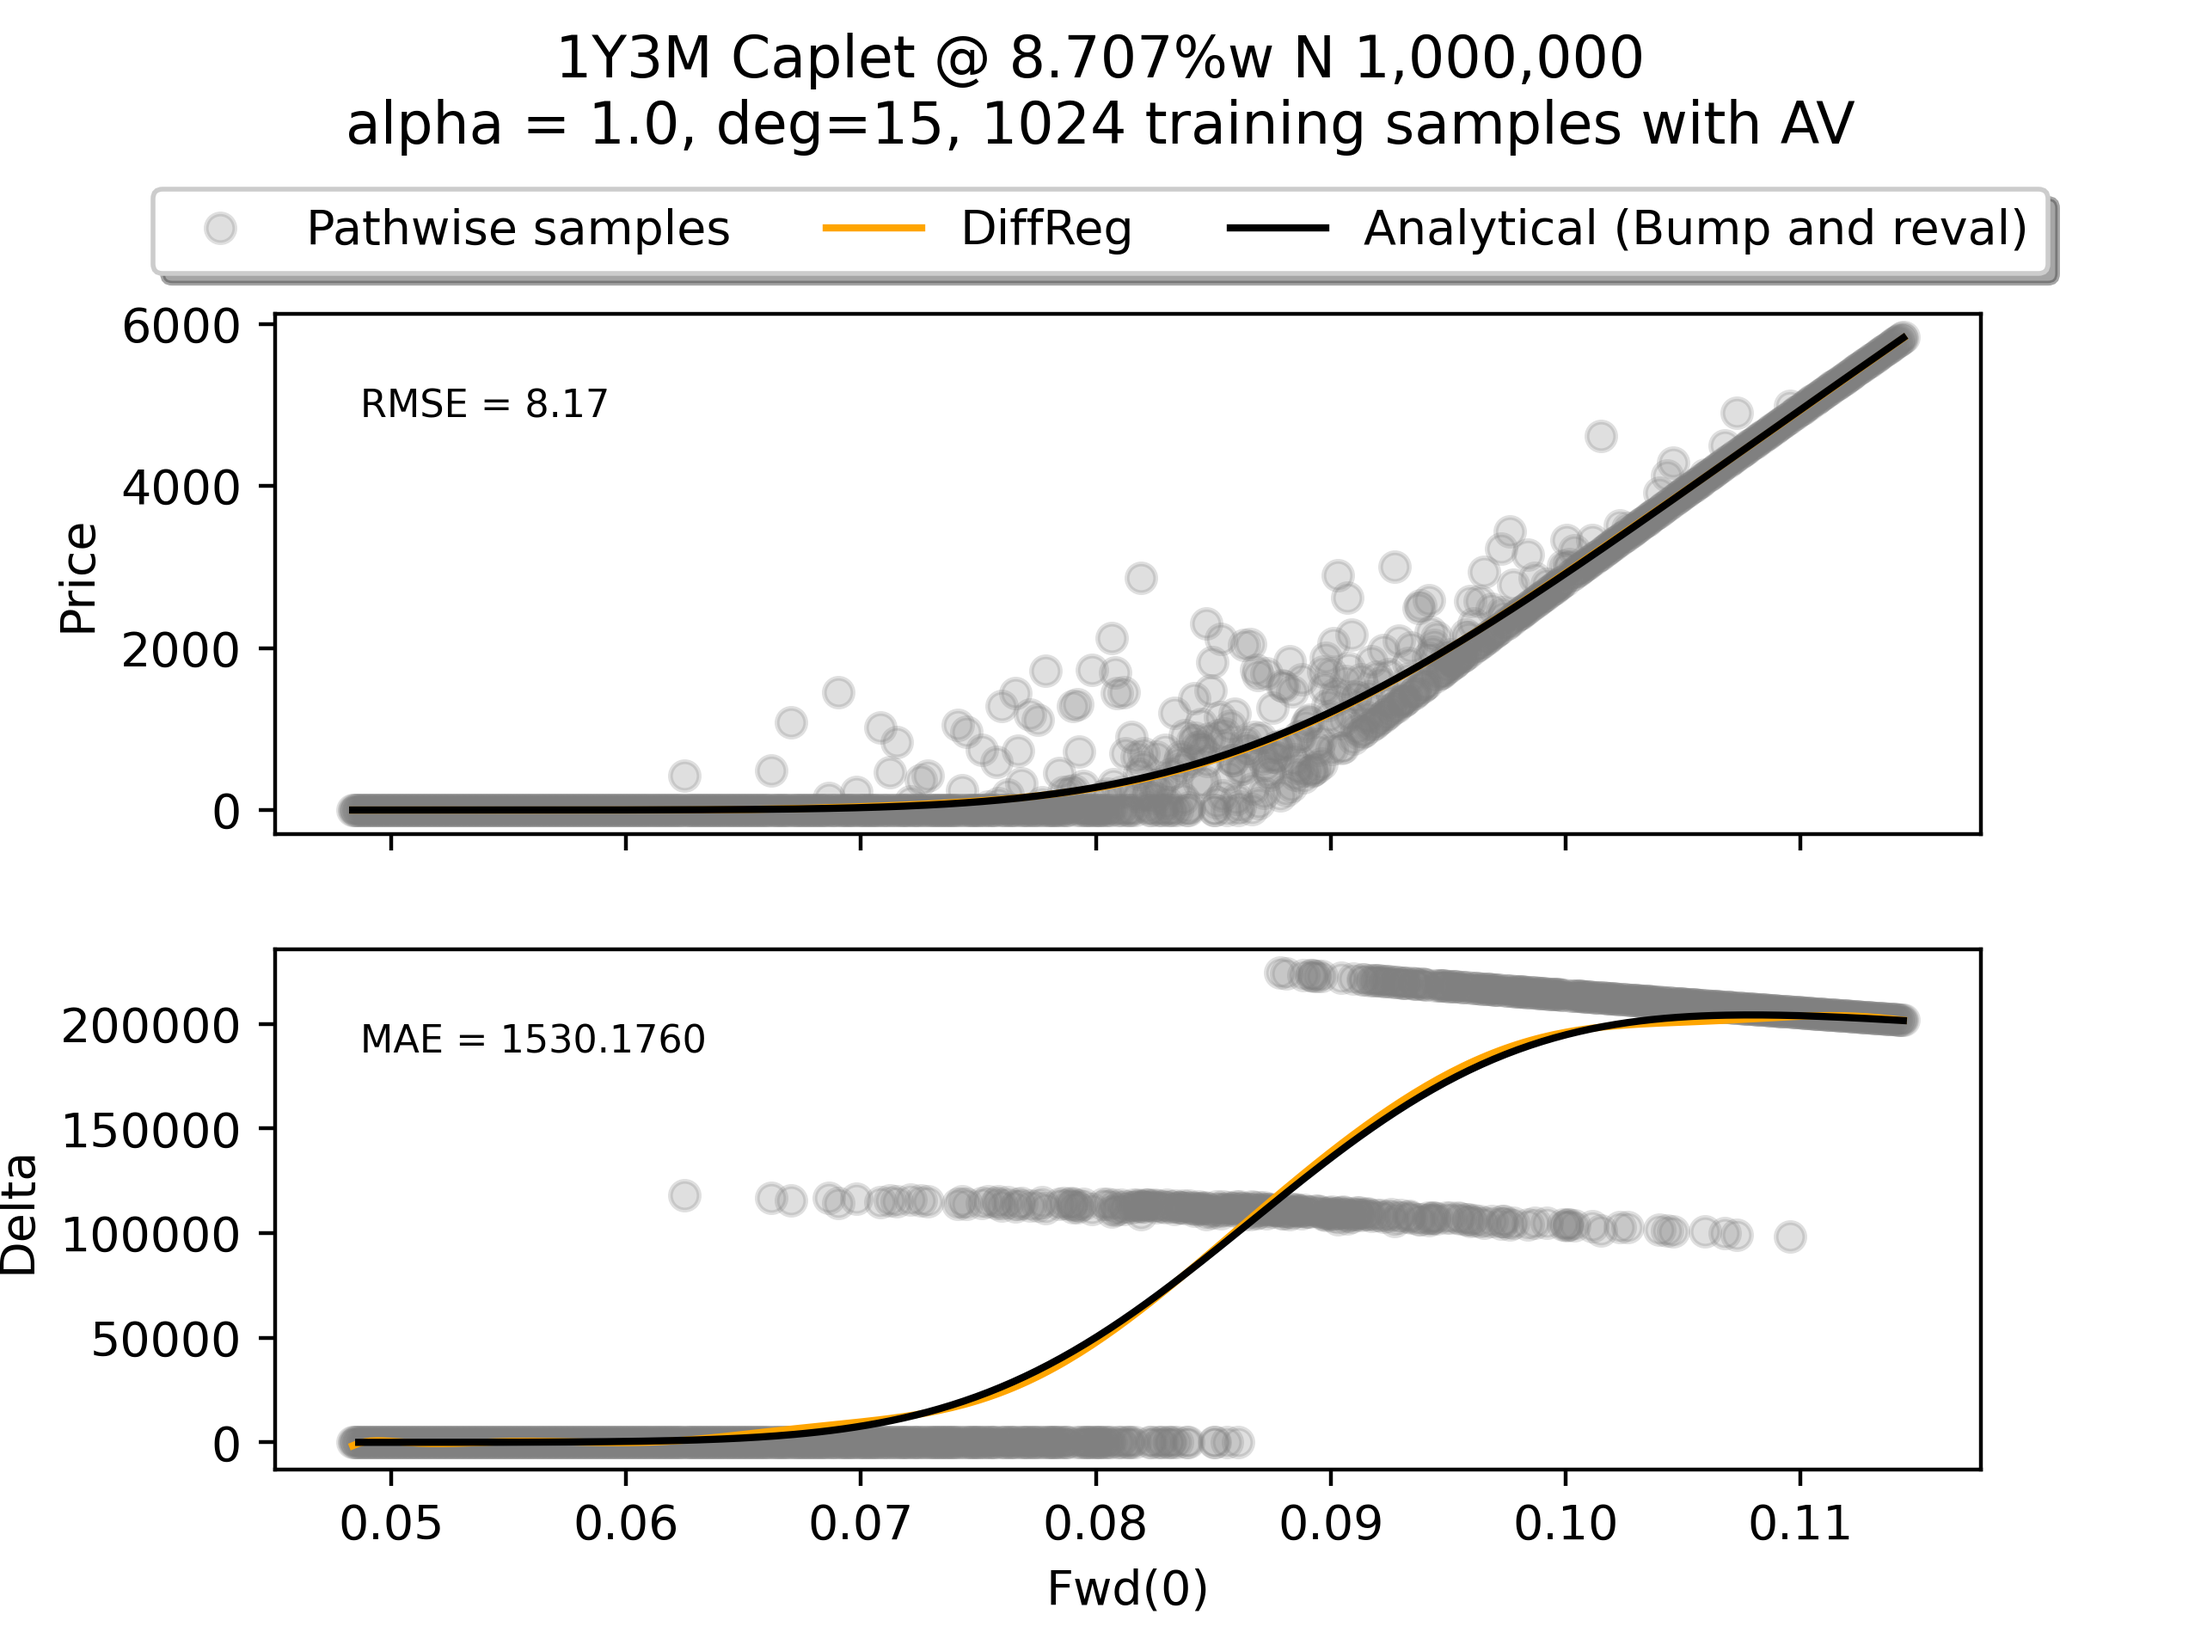
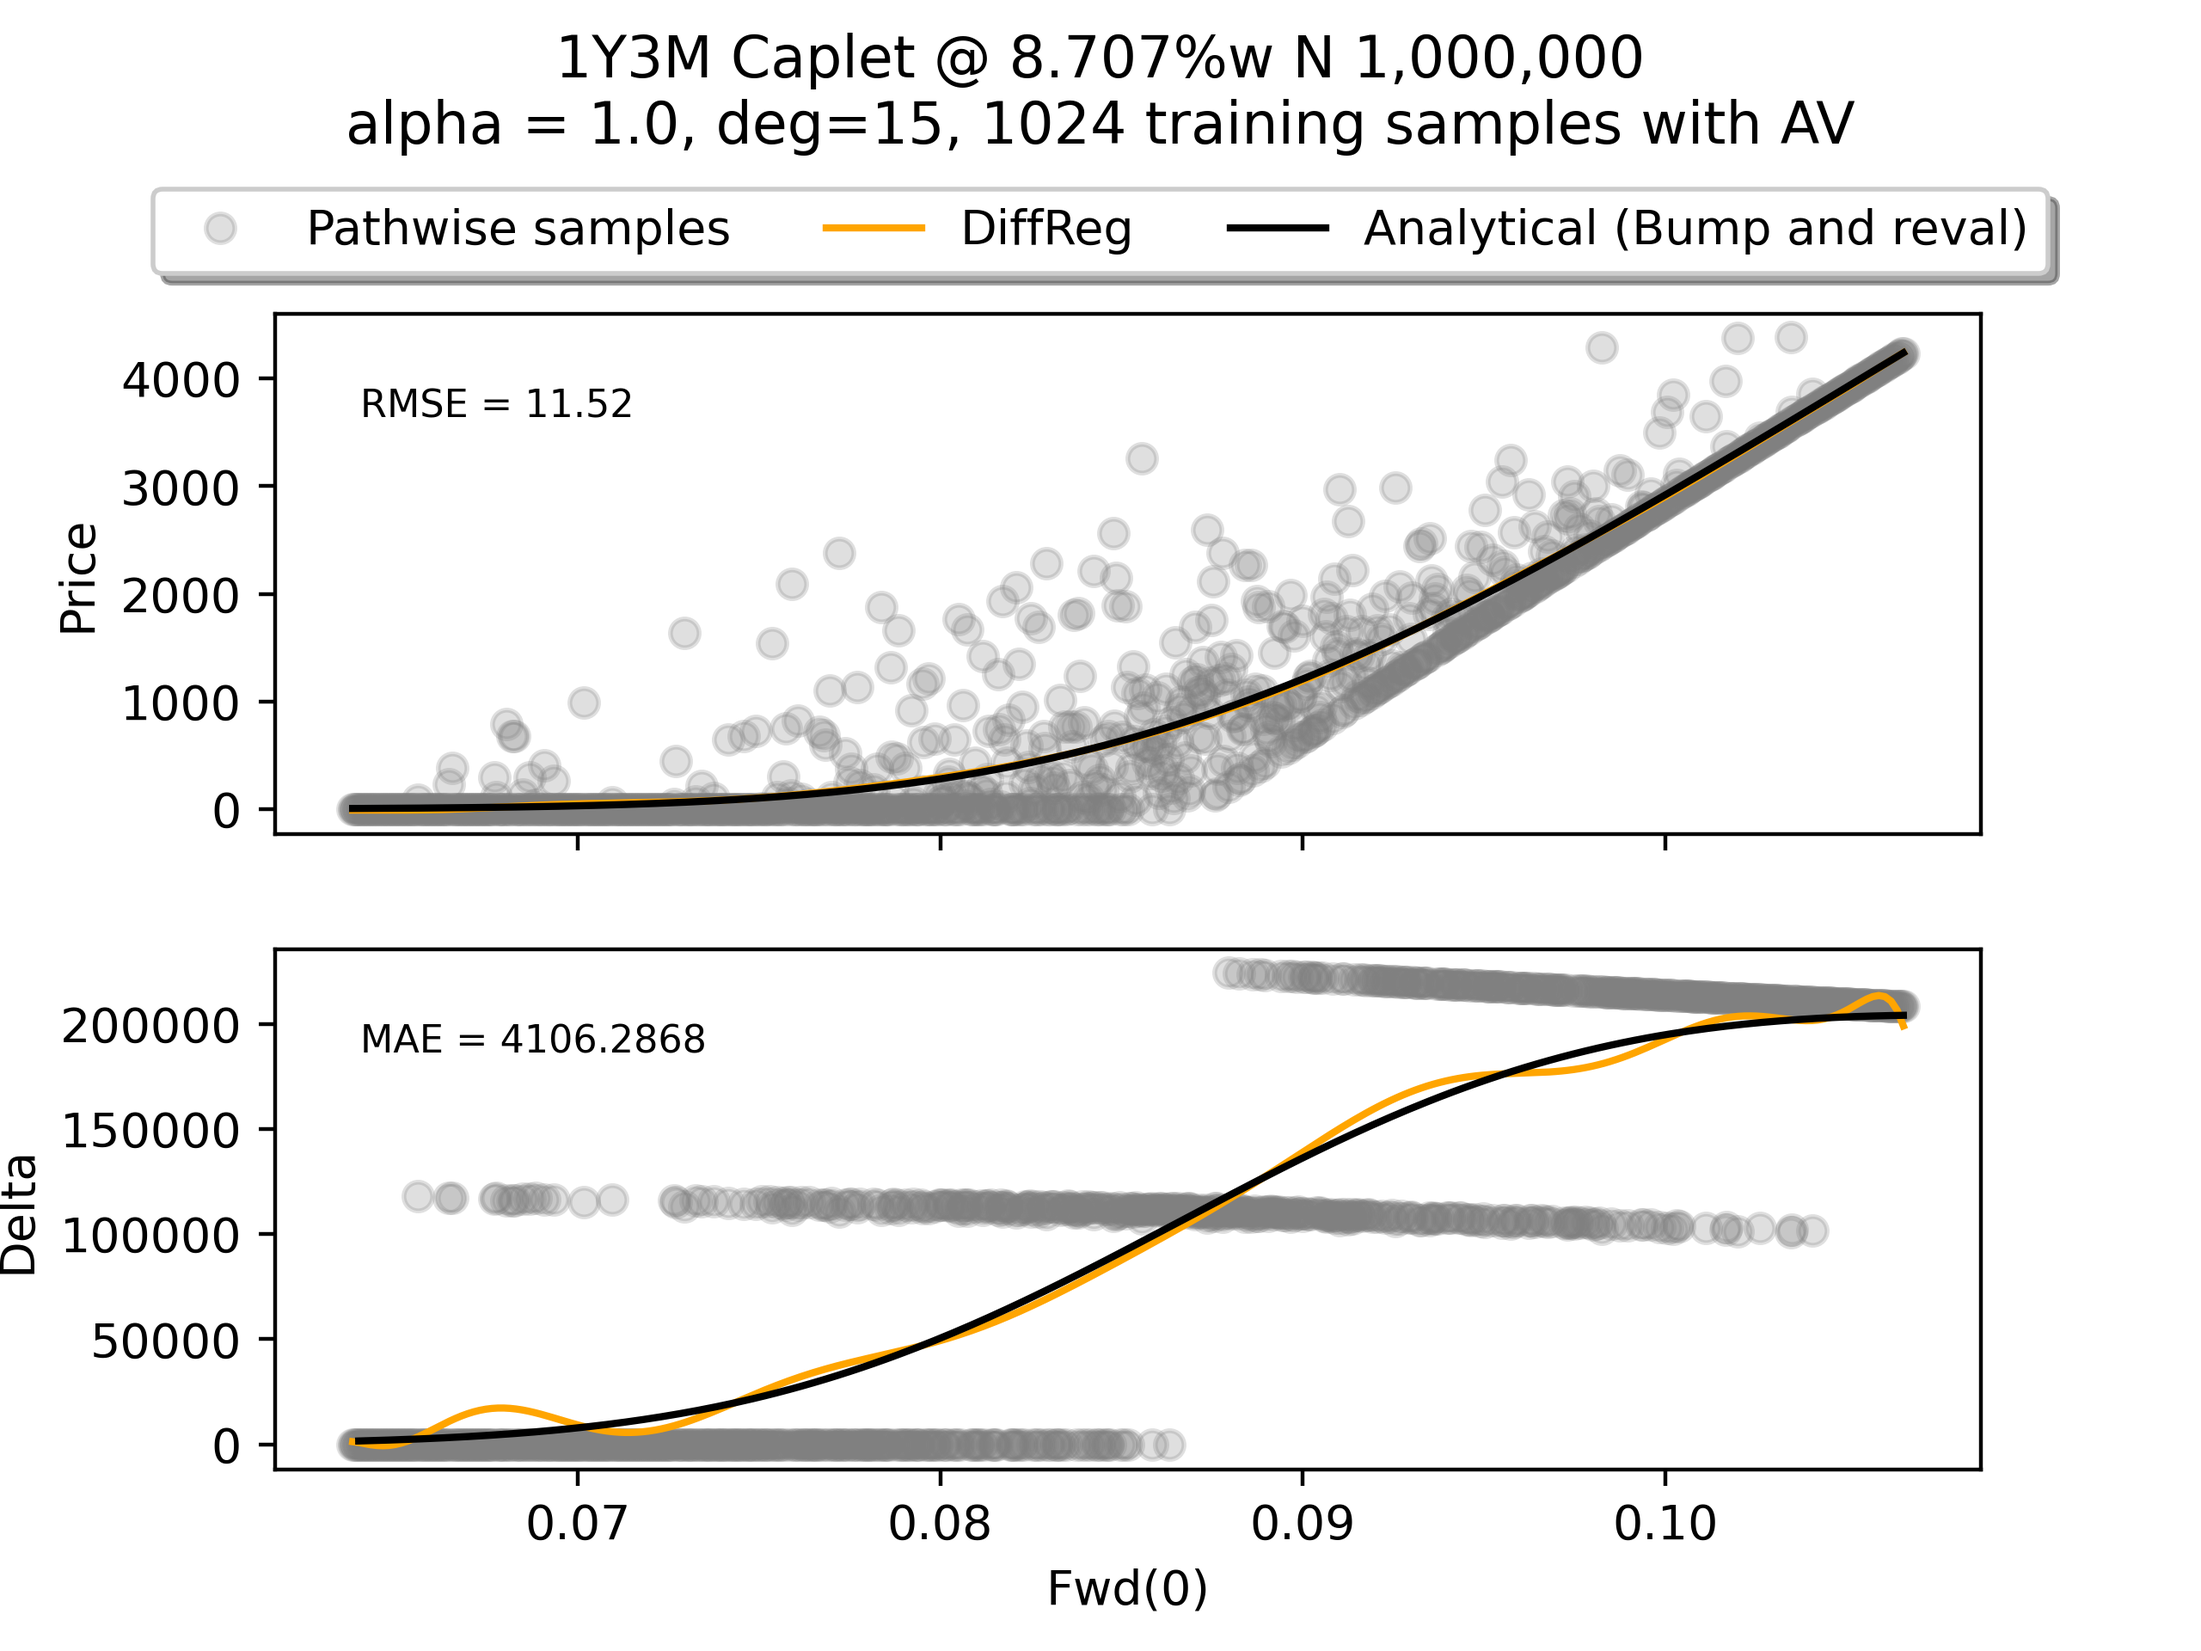
adding adapting training grid

diff --git a/application/experiments/vasicek/hedge_experiments/vasicek_AAD_DiffReg_delta_hedge_caplet.py b/application/experiments/vasicek/hedge_experiments/vasicek_AAD_DiffReg_delta_hedge_caplet.py
@@ -2,7 +2,7 @@ import torch
 import matplotlib.pyplot as plt
 from torch.autograd.functional import jvp
 from tqdm import tqdm
-from application.engine.vasicek import Vasicek
+from application.engine.vasicek import Vasicek, choose_training_grid
 from application.engine.products import Caplet
 from application.engine.standard_scalar import DifferentialStandardScaler
 from application.engine.differential_Regression import DifferentialPolynomialRegressor
@@ -22,11 +22,6 @@ if __name__ == '__main__':
 
     hedge_points = 10
 
-    r0_min = 0.05
-    r0_max = 0.11
-
-    r0_vec = torch.linspace(r0_min, r0_max, N_train)
-
     # Setup Differential Regressor, and Scalar
     deg = 9
     alpha = 1.0
@@ -39,6 +34,11 @@ if __name__ == '__main__':
     sigma = torch.tensor(0.0148)
     r0 = torch.tensor(0.08)
     measure = 'risk_neutral'
+
+    # only chosen for time-0
+    r0_min = 0.07
+    r0_max = 0.09
+    r0_vec = torch.linspace(r0_min, r0_max, N_train)
 
     mdl = Vasicek(a, b, sigma, r0, use_ATS=True, use_euler=False, measure=measure)
 
@@ -217,6 +217,7 @@ if __name__ == '__main__':
         cpl_prices.append(mdl.calc_cpl(r[k, :], exerciseDate-t, delta, strike, notional))
 
         if k < last_idx:
+            r0_vec = choose_training_grid(r[k, :], N_train)
             # h_a = calc_delta_bump_and_reval(r[k, :], exerciseDate - t, delta, strike)
             h_a = calc_delta(fwd_vec=fwd, r0_vec=r0_vec, t0=t, use_av=use_av)
             h_b = (V - h_a * fwd) / B

diff --git a/application/experiments/vasicek/hedge_experiments/vasicek_AAD_DiffReg_delta_hedge_caplet_as_put_on_zcb.py b/application/experiments/vasicek/hedge_experiments/vasicek_AAD_DiffReg_delta_hedge_caplet_as_put_on_zcb.py
@@ -2,7 +2,7 @@ import torch
 import matplotlib.pyplot as plt
 from torch.autograd.functional import jvp
 from tqdm import tqdm
-from application.engine.vasicek import Vasicek
+from application.engine.vasicek import Vasicek, choose_training_grid
 from application.engine.products import CapletAsPutOnZCB
 from application.engine.standard_scalar import DifferentialStandardScaler
 from application.engine.differential_Regression import DifferentialPolynomialRegressor
@@ -22,8 +22,8 @@ if __name__ == '__main__':
 
     hedge_points = 250
 
-    r0_min = 0.04
-    r0_max = 0.11
+    r0_min = 0.07
+    r0_max = 0.09
 
     r0_vec = torch.linspace(r0_min, r0_max, N_train)
 
@@ -200,6 +200,7 @@ if __name__ == '__main__':
         cpl_prices.append(mdl.calc_cpl(r[k, :], exerciseDate-t, delta, strike, notional))
 
         if k < last_idx:
+            r0_vec = choose_training_grid(r[k,:], N_train)
             h_a = calc_delta(zcb_vec=zcb, r0_vec=r0_vec, t0=t, use_av=use_av)
             h_b = (V - h_a * zcb) / B
 

diff --git a/application/experiments/vasicek/hedge_experiments/vasicek_AAD_DiffReg_delta_hedge_EuPayerSwpt.py b/application/experiments/vasicek/hedge_experiments/vasicek_AAD_DiffReg_delta_hedge_EuPayerSwpt.py
@@ -1,7 +1,7 @@
 import torch
 import matplotlib.pyplot as plt
 from torch.autograd.functional import jvp
-from application.engine.vasicek import Vasicek
+from application.engine.vasicek import Vasicek, choose_training_grid
 from application.engine.products import EuropeanPayerSwaption
 from application.engine.standard_scalar import DifferentialStandardScaler
 from application.engine.differential_Regression import DifferentialPolynomialRegressor
@@ -21,8 +21,8 @@ if __name__ == '__main__':
 
     steps_per_fixing = 10
 
-    r0_min = -0.02
-    r0_max = 0.15
+    r0_min = 0.07
+    r0_max = 0.09
 
     r0_vec = torch.linspace(r0_min, r0_max, N_train)
 
@@ -185,6 +185,7 @@ if __name__ == '__main__':
         # Update portfolio
         V = h_a * swap + h_b * torch.exp(0.5 * (r[k, :] + r[k - 1, :]) * dt)
         if k < last_idx:
+            r0_vec = choose_training_grid(r[k, :], N_train)
             h_a = calc_delta(swap_vec=swap, r0_vec=r0_vec, t0=t, use_av=use_av)
             h_b = V - h_a * swap
 

diff --git a/application/experiments/vasicek/hedge_experiments/vasicek_AAD_DiffReg_delta_hedge_Fraption.py b/application/experiments/vasicek/hedge_experiments/vasicek_AAD_DiffReg_delta_hedge_Fraption.py
@@ -1,7 +1,7 @@
 import torch
 import matplotlib.pyplot as plt
 from torch.autograd.functional import jvp
-from application.engine.vasicek import Vasicek
+from application.engine.vasicek import Vasicek, choose_training_grid
 from application.engine.products import Fraption
 from application.engine.standard_scalar import DifferentialStandardScaler
 from application.engine.differential_Regression import DifferentialPolynomialRegressor
@@ -21,8 +21,8 @@ if __name__ == '__main__':
 
     hedge_points = 100
 
-    r0_min = 0.05
-    r0_max = 0.11
+    r0_min = 0.07
+    r0_max = 0.09
 
     r0_vec = torch.linspace(r0_min, r0_max, N_train)
 
@@ -179,6 +179,7 @@ if __name__ == '__main__':
         # Update portfolio
         V = h_a * fra + h_b * torch.exp(0.5 * (r[k, :] + r[k - 1, :]) * dt)
         if k < last_idx:
+            r0_vec = choose_training_grid(r[k, :], N_train)
             h_a = calc_delta(fra_vec=fra, r0_vec=r0_vec, t0=t, use_av=use_av)
             h_b = V - h_a * fra
 

diff --git a/application/engine/vasicek.py b/application/engine/vasicek.py
@@ -417,3 +417,10 @@ def calibrate_vasicek_zcb_price(maturities, market_prices, a=1.00, b=0.05, sigma
             'adaptive': True,
             'disp': True
         })
+
+def choose_training_grid(r : torch.Tensor, training_sz : int):
+    sd = r.std()
+    lower = r.min() - sd
+    upper = r.max() + sd
+    grid = torch.linspace(lower, upper, training_sz)
+    return grid

diff --git a/application/experiments/vasicek/diff_ML_plots/vasicek_AAD_DiffReg_plot_delta_caplet.py b/application/experiments/vasicek/diff_ML_plots/vasicek_AAD_DiffReg_plot_delta_caplet.py
@@ -17,8 +17,8 @@ if __name__ == '__main__':
     N_test = 256
     use_av = True
 
-    r0_min = -0.02
-    r0_max = 0.15
+    r0_min = 0.02
+    r0_max = 0.13
 
     r0_vec = torch.linspace(r0_min, r0_max, N_train)
 
